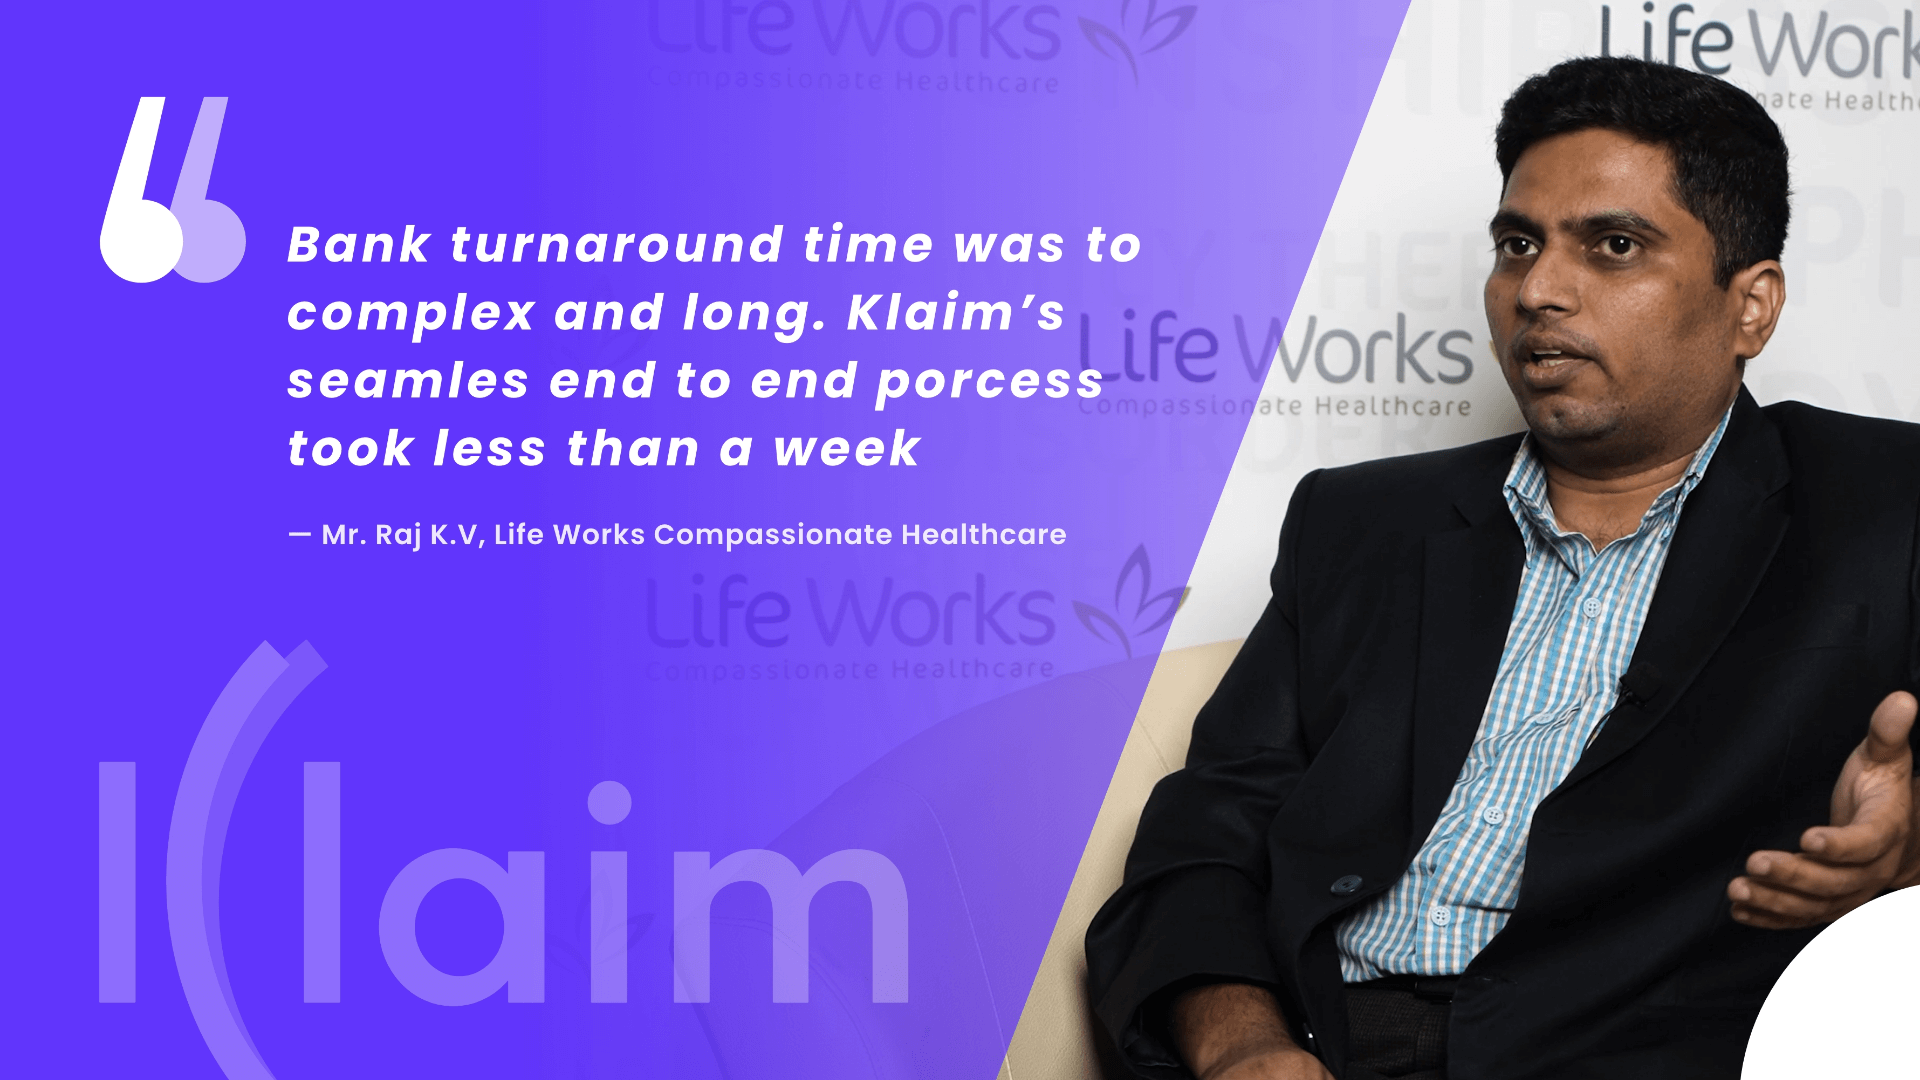
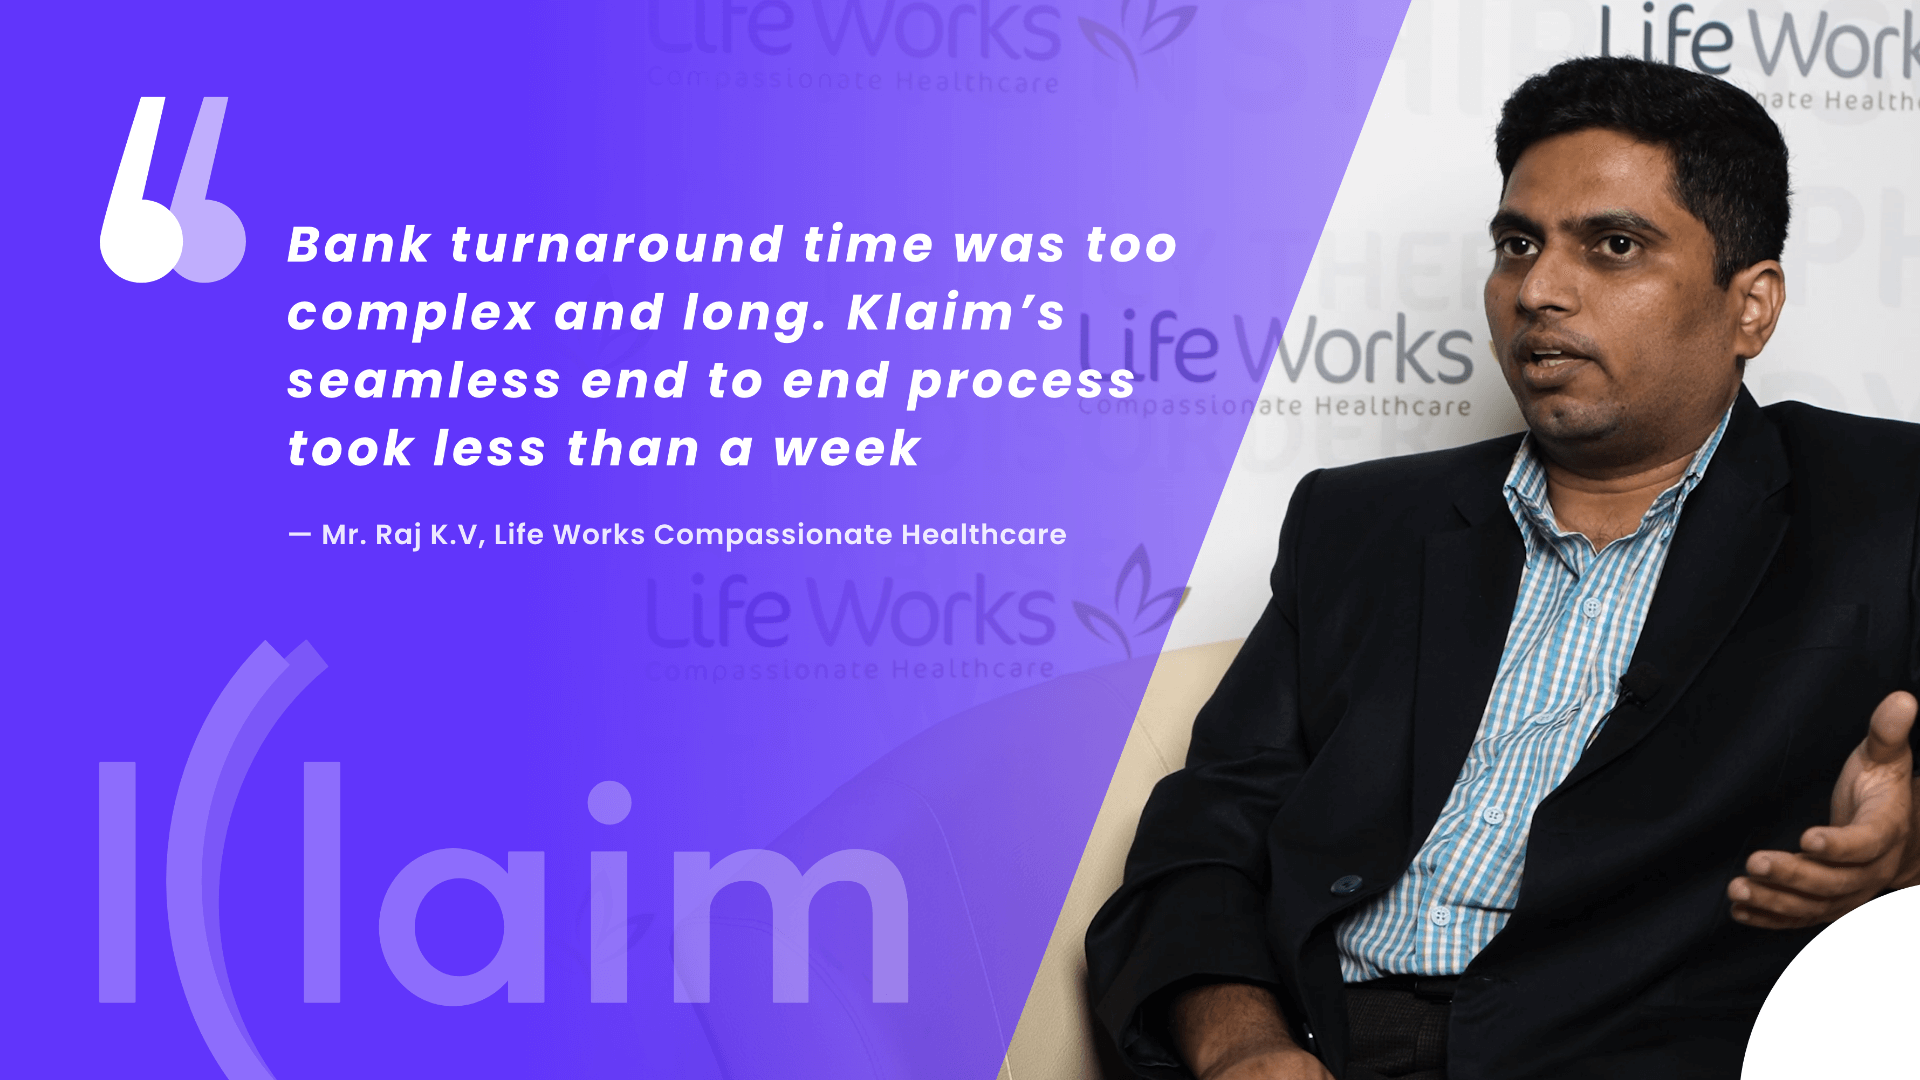
Replace reviews images & some text fixes.

Changed region(s): [[0.2812, 0.3361, 0.5938, 0.3972], [0.5938, 0.2139, 0.625, 0.2444]]

diff --git a/components/HomeModule/Boxes.js b/components/HomeModule/Boxes.js
@@ -48,7 +48,7 @@ const Boxes = () => {
                     <div className="card counter-box border-0 bg-light bg-gradient shadow text-center rounded">
                       <div className="card-body py-5">
                         <h2 className="mb-0">
-                          <span className="counter-value">24</span>h
+                          <span className="counter-value">24</span>hr
                         </h2>
                         <h5 className="counter-head mb-0">Claim to Cash</h5>
                       </div>
